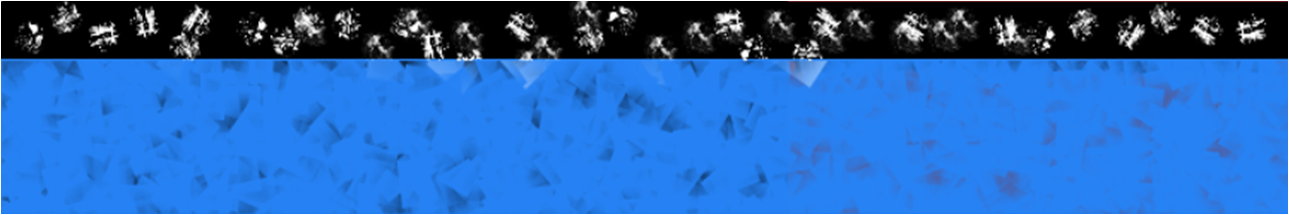
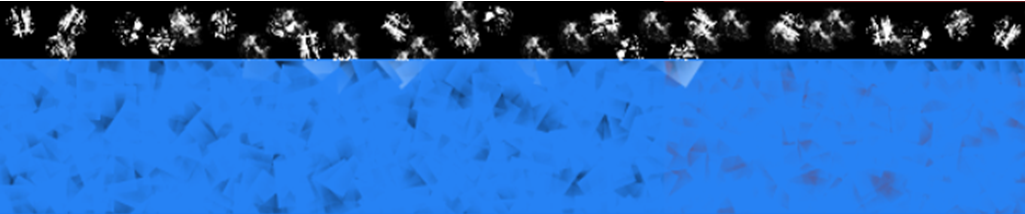
Header, Divisions

diff --git a/style.css b/style.css
@@ -6,4 +6,31 @@ body {
     background: snow;
 }
 
+#main {
+   background: url(images/header.png) repeat-x;
+   height: 120px;
+}
 
+#logo {
+    color: white;
+    padding-top: 70px;
+    padding-bottom: 100px;
+}
+
+#content-main {
+    background:url(images/TweetContain.png);
+    background-size: cover;
+    padding-top: 100px;
+    padding-left: 20px;
+}
+
+.bold-text {
+    font-weight: bold;
+}
+
+#footer {
+    padding-top: 20px;
+    padding-bottom:60px;
+    margin-top: 60px;
+    color: black; 
+}
